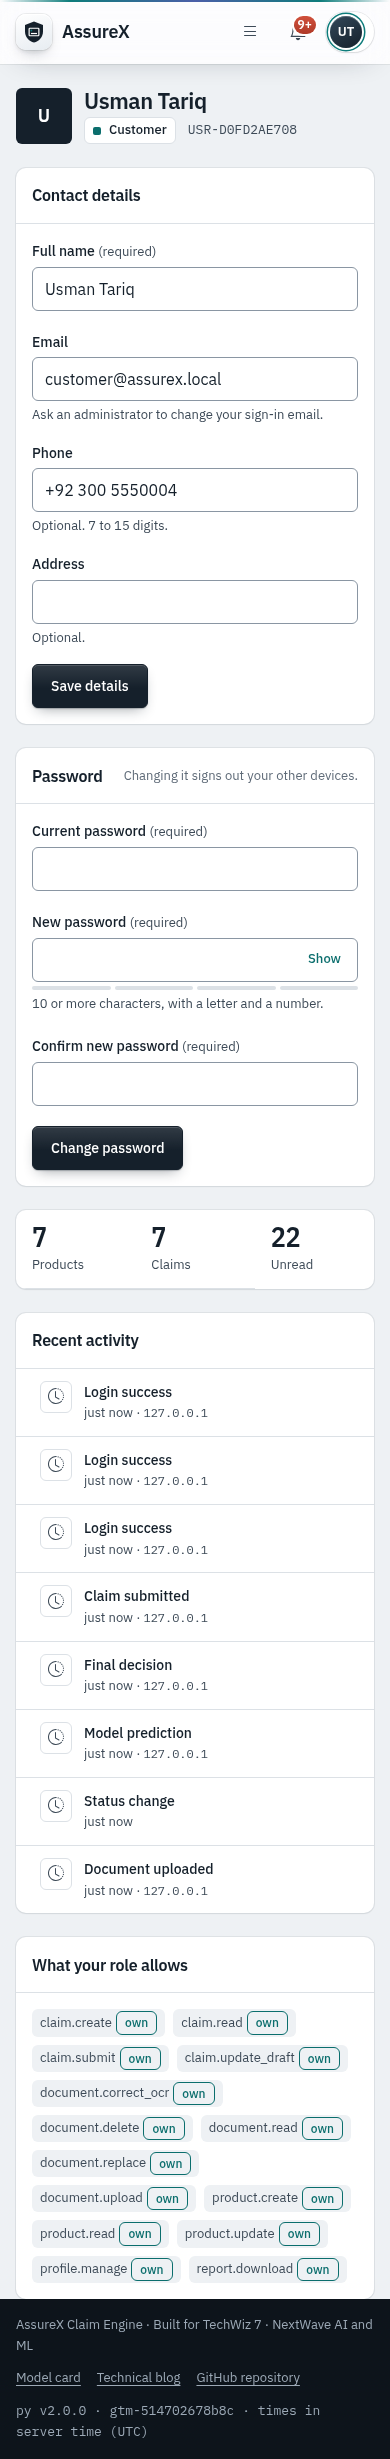
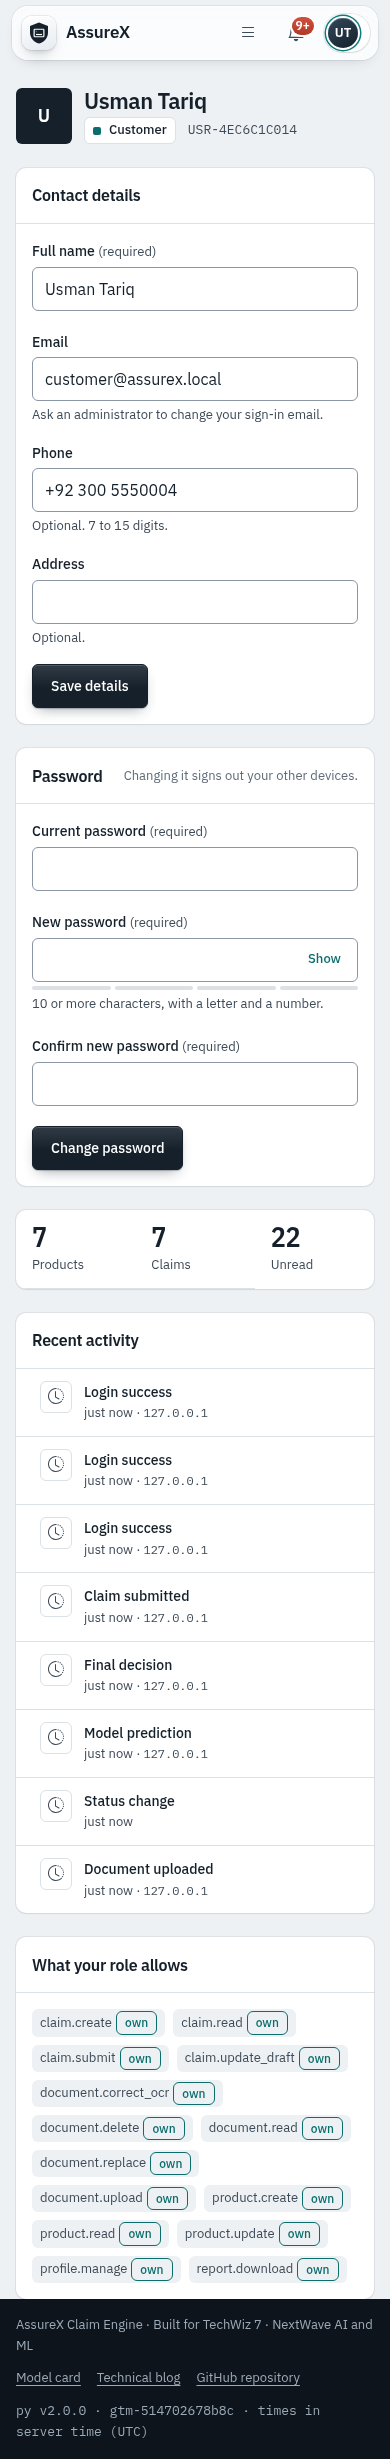
style: navbar as a floating glass island
The bar now holds a rounded glass island that floats 8px below the top
edge: dark glass over the landing hero, paper glass everywhere else. A
teal-to-indigo line along its bottom edge fills as the page scrolls, a
soft pill glides behind the link under the pointer, signed-out visitors
get How it works, Results, Model card and Technical blog links, a
Models ready chip shows when both model files are installed (versions on
hover), and the sign-in button carries an arrow.

Changed region(s): [[0.0615, 0.0, 0.9538, 0.0309]]

diff --git a/static/css/app.css b/static/css/app.css
@@ -969,3 +969,84 @@ details.panel-f > summary { cursor: pointer; font-weight: 600; font-size: var(--
   .nav a { border-radius: 0; }
   .nav .sheet-close { display: inline-grid; }     /* an earlier rule hid the close button at every width */
 }
+
+/* ================================================================== navbar v2: a floating glass island
+   The 64px sticky bar is transparent; inside it the island floats 8px from the top with rounded corners, glass,
+   a hairline ring and a two-stage shadow. A 2px teal-to-indigo line along its bottom edge fills as the page
+   scrolls (scroll-driven animation where supported). A soft pill glides behind the link under the pointer. */
+.topbar { background: transparent; box-shadow: none; padding: 8px var(--s5) 0; }
+.topbar::before, .topbar::after { display: none; }
+.topbar .wrap { position: relative; isolation: isolate; height: calc(var(--nav-h) - 12px); max-width: var(--content-wide); padding: 0 8px 0 10px;
+  border-radius: 18px; background: color-mix(in srgb, var(--paper) 76%, transparent);
+  box-shadow: inset 0 1px 0 rgba(255, 255, 255, .9), 0 0 0 1px rgba(21, 32, 43, .07), 0 6px 16px -10px rgba(21, 32, 43, .3), 0 24px 48px -30px rgba(21, 32, 43, .35);
+  transition: background-color 250ms var(--ease), box-shadow 250ms var(--ease); }
+.topbar .wrap::before { content: ""; position: absolute; inset: 0; z-index: -1; border-radius: inherit; pointer-events: none;
+  -webkit-backdrop-filter: saturate(180%) blur(18px); backdrop-filter: saturate(180%) blur(18px); }
+.topbar .wrap::after { content: ""; position: absolute; left: 18px; right: 18px; bottom: 0; height: 2px; border-radius: 2px; pointer-events: none;
+  background: linear-gradient(90deg, var(--teal-mark), var(--gtm)); transform-origin: left; transform: scaleX(0); opacity: 0; }
+@supports (animation-timeline: scroll()) {
+  .topbar .wrap::after { opacity: 1; animation: nav-progress linear both; animation-timeline: scroll(root); }
+  @keyframes nav-progress { from { transform: scaleX(0); } to { transform: scaleX(1); } }
+}
+.brand-tile { width: 34px; height: 34px; border-radius: 10px; }
+.brand-name { font-size: 1.0625rem; }
+
+/* links: public (.pnav) and signed-in (.nav) share the tray and the gliding pill */
+.pnav { display: none; }
+@media (min-width: 992px) {
+  .pnav { position: relative; display: flex; align-items: center; gap: 2px; padding: 4px; margin: 0 auto; border-radius: var(--r-dot);
+    background: rgba(21, 32, 43, .04); box-shadow: inset 0 1px 2px rgba(21, 32, 43, .07), inset 0 0 0 1px rgba(21, 32, 43, .035); }
+  .pnav a { position: relative; z-index: 1; display: inline-flex; align-items: center; height: 32px; padding: 0 14px; border-radius: var(--r-dot);
+    font-size: var(--fs-sm); font-weight: 500; color: var(--ink-2); text-decoration: none; white-space: nowrap; transition: color var(--t-fast); }
+  .pnav a:hover { color: var(--ink); }
+  .pnav a[aria-current="page"] { color: var(--ink); background: var(--paper);
+    box-shadow: inset 0 1px 0 #FFFFFF, 0 0 0 1px rgba(21, 32, 43, .07), 0 1px 2px rgba(21, 32, 43, .1), 0 6px 14px -8px rgba(21, 32, 43, .4); }
+  .pnav a:focus-visible { box-shadow: var(--focus); }
+  .pnav-m { display: none; }
+  .nav { position: relative; margin: 0 auto; }
+  .nav a { z-index: 1; height: 32px; }
+  .nav a:hover { background: transparent; }
+  .nav-glide { position: absolute; top: 4px; bottom: 4px; left: 0; width: var(--gw, 0); transform: translateX(var(--gx, 0)); z-index: 0;
+    border-radius: var(--r-dot); background: rgba(255, 255, 255, .85); box-shadow: 0 0 0 1px rgba(21, 32, 43, .05), 0 2px 6px -2px rgba(21, 32, 43, .18);
+    opacity: 0; pointer-events: none; transition: transform 280ms var(--ease), width 280ms var(--ease), opacity 160ms; }
+  .gliding > .nav-glide { opacity: 1; }
+  :not(.gliding) > .nav-glide { transition: opacity 160ms; }
+}
+.nav-actions { gap: var(--s2); }
+
+/* a live chip: both model files are installed; hover shows their versions */
+.live-chip { display: none; align-items: center; gap: 7px; height: 30px; padding: 0 12px 0 10px; border-radius: var(--r-dot);
+  font-size: var(--fs-xs); font-weight: 500; color: var(--ink-2); background: rgba(21, 32, 43, .04); box-shadow: inset 0 0 0 1px rgba(21, 32, 43, .06); white-space: nowrap; }
+.live-chip i { position: relative; width: 7px; height: 7px; border-radius: 50%; background: var(--valid-mark); }
+.live-chip i::after { content: ""; position: absolute; inset: 0; border-radius: 50%; background: var(--valid-mark); animation: live-ping 2.4s ease-out infinite; }
+@keyframes live-ping { 0% { transform: scale(1); opacity: .55; } 70%, 100% { transform: scale(2.8); opacity: 0; } }
+@media (min-width: 1200px) { .live-chip { display: inline-flex; } }
+
+/* the call to action: arrow nudges on hover */
+.btn.cta { height: 38px; min-height: 38px; padding: 0 14px 0 16px; border-radius: 12px; }
+.btn.cta .ic { transition: transform var(--t-fast); }
+.btn.cta:hover .ic { transform: translateX(2px); }
+.topbar .btn.ghost { min-height: 38px; border-radius: 12px; }
+.user-btn { height: 38px; }
+.user-btn .initials { width: 30px; height: 30px; }
+
+/* landing: a dark glass island over the bench, turning to paper glass once the page scrolls */
+.nav-overlay .topbar, .nav-overlay .topbar:not(.scrolled), .nav-overlay .topbar.scrolled { background: transparent; box-shadow: none; }
+.nav-overlay .topbar:not(.scrolled) .wrap { background: rgba(21, 32, 42, .45);
+  box-shadow: inset 0 1px 0 rgba(255, 255, 255, .07), 0 0 0 1px rgba(255, 255, 255, .08), 0 20px 40px -24px rgba(0, 0, 0, .8); }
+.nav-overlay .topbar:not(.scrolled) .pnav { background: rgba(255, 255, 255, .05); box-shadow: inset 0 0 0 1px rgba(255, 255, 255, .06); }
+.nav-overlay .topbar:not(.scrolled) .pnav a { color: var(--on-bench-2); }
+.nav-overlay .topbar:not(.scrolled) .pnav a:hover { color: var(--on-bench); }
+.nav-overlay .topbar:not(.scrolled) .nav-glide { background: rgba(255, 255, 255, .1); box-shadow: inset 0 1px 0 rgba(255, 255, 255, .08); }
+.nav-overlay .topbar:not(.scrolled) .live-chip { color: var(--on-bench-2); background: rgba(255, 255, 255, .05); box-shadow: inset 0 0 0 1px rgba(255, 255, 255, .07); }
+.nav-overlay .topbar:not(.scrolled) .live-chip i, .nav-overlay .topbar:not(.scrolled) .live-chip i::after { background: var(--valid-bright); }
+
+@media (max-width: 991px) {
+  .topbar { padding: 6px var(--s3) 0; }
+  .topbar .wrap { height: calc(var(--nav-h) - 10px); border-radius: 16px; }
+}
+@media (prefers-reduced-motion: reduce) {
+  .live-chip i::after { animation: none; display: none; }
+  .nav-glide { transition: opacity 160ms !important; }
+  .topbar .wrap { transition: none; }
+}

diff --git a/templates/components/navbar.html b/templates/components/navbar.html
@@ -1,5 +1,10 @@
-{# Sticky 64px navbar: wordmark, permission-driven links (a sheet below 992px), bell and user menu or sign-in. #}
+{# Sticky 64px bar holding a floating glass "island": wordmark, permission-driven links (a sheet below 992px),
+   bell and user menu; or, signed out, the public links and sign-in. A thin line along the island's bottom edge
+   fills as the page scrolls. #}
+{% from "components/ui.html" import icon %}
 {% set ep = request.endpoint or '' %}
+{% set mv = model_versions() %}
+{% set models_ready = mv.python != 'not installed' and mv.gtm != 'not installed' %}
 <header class="topbar">
   <div class="wrap">
     <a class="brand" href="{{ url_for('auth.home') if current_user else url_for('public.index') }}">
@@ -12,6 +17,7 @@
       </nav>
       <div class="sheet-backdrop" data-sheet-backdrop></div>
       <div class="nav-actions">
+        {% if models_ready %}<span class="live-chip" title="Python model {{ mv.python }} · Teachable Machine {{ mv.gtm }}"><i aria-hidden="true"></i>Models ready</span>{% endif %}
         <button class="icon-btn nav-toggle" type="button" aria-controls="main-nav" aria-expanded="false" data-sheet-open aria-label="Open menu"><i class="bi bi-list" aria-hidden="true"></i></button>
         {% set unread = unread_notifications() %}
         <div class="menu" data-menu>
@@ -55,9 +61,16 @@
         </div>
       </div>
     {% else %}
+      <nav class="pnav" aria-label="Main">
+        <a href="{{ url_for('public.index', _anchor='how') }}">How it works</a>
+        <a href="{{ url_for('public.index', _anchor='models') }}">Results</a>
+        <a href="{{ url_for('public.model_card') }}" {% if ep == 'public.model_card' %}aria-current="page"{% endif %}>Model card</a>
+        <a href="{{ url_for('public.blog') }}" {% if ep == 'public.blog' %}aria-current="page"{% endif %}>Technical blog</a>
+      </nav>
       <div class="nav-actions">
-        <a class="btn ghost" href="{{ url_for('public.model_card') }}">Model card</a>
-        {% if ep != 'auth.login' %}<a class="btn" href="{{ url_for('auth.login') }}">Sign in</a>{% endif %}
+        {% if models_ready %}<span class="live-chip" title="Python model {{ mv.python }} · Teachable Machine {{ mv.gtm }}"><i aria-hidden="true"></i>Models ready</span>{% endif %}
+        <a class="btn ghost pnav-m" href="{{ url_for('public.model_card') }}">Model card</a>
+        {% if ep != 'auth.login' %}<a class="btn cta" href="{{ url_for('auth.login') }}">Sign in{{ icon('arrow-right', 'sm') }}</a>{% endif %}
       </div>
     {% endif %}
   </div>

diff --git a/static/js/app.js b/static/js/app.js
@@ -206,6 +206,22 @@
     confirm.addEventListener("input", upd); pw.addEventListener("input", upd);
   });
 
+  /* navbar: a pill glides behind the link under the pointer (desktop tray only) */
+  $$(".nav, .pnav").forEach((nav) => {
+    const glide = document.createElement("span");
+    glide.className = "nav-glide";
+    glide.setAttribute("aria-hidden", "true");
+    nav.prepend(glide);
+    nav.addEventListener("pointerover", (e) => {
+      const a = e.target.closest("a");
+      if (!a || !nav.contains(a) || !matchMedia("(min-width: 992px)").matches) return;
+      glide.style.setProperty("--gx", `${a.offsetLeft}px`);
+      glide.style.setProperty("--gw", `${a.offsetWidth}px`);
+      requestAnimationFrame(() => nav.classList.add("gliding"));
+    });
+    nav.addEventListener("pointerleave", () => nav.classList.remove("gliding"));
+  });
+
   /* 3D tilt: the element leans toward the pointer inside its zone (fine pointers only, never with reduced motion) */
   $$("[data-tilt-zone]").forEach((zone) => {
     const el = $("[data-tilt]", zone);
